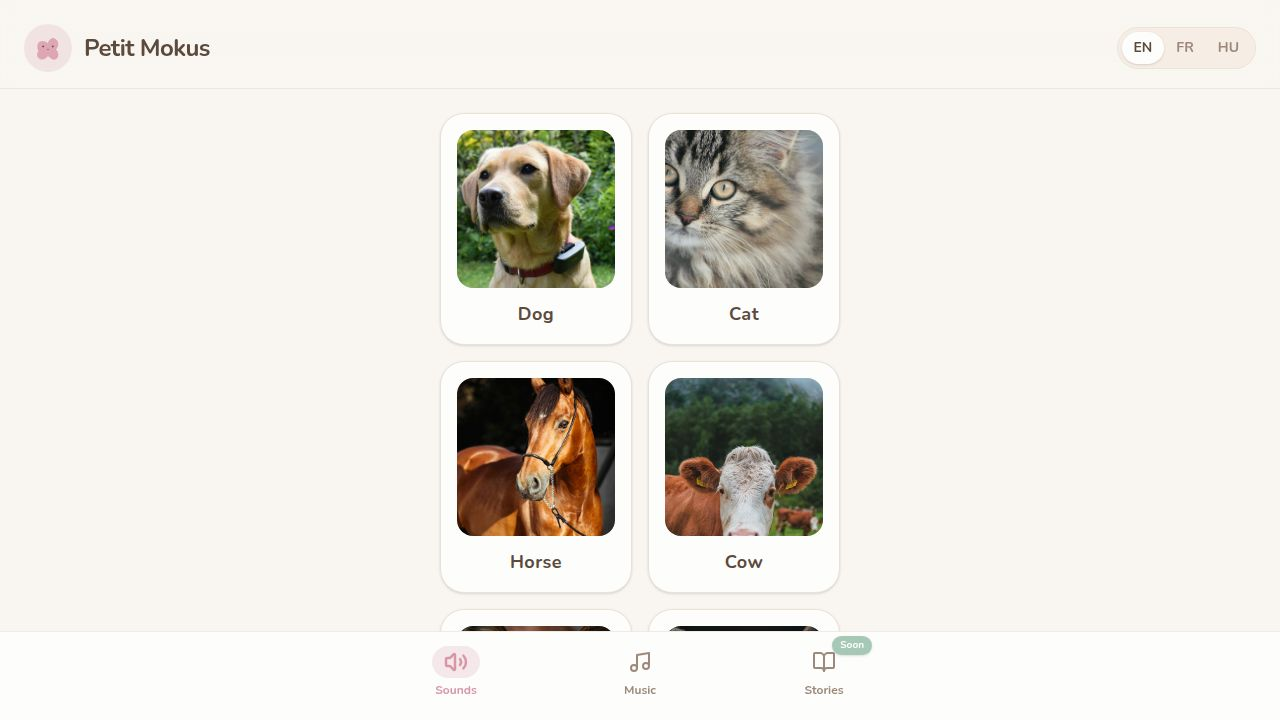
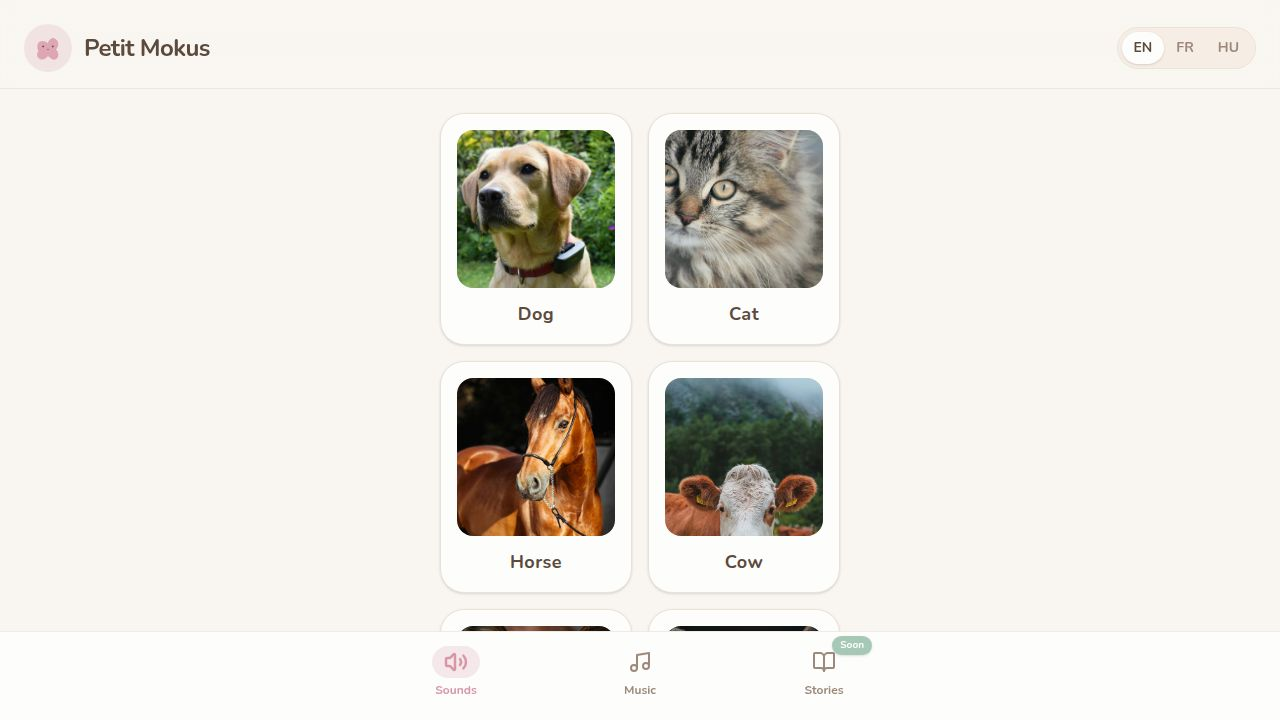
Fix cow image position and push all 10 animal photos to GitHub
- Identified that GitHub repo had old TabSounds.tsx using emoji for horse, cow, wolf, squirrel, pig
- Pushed updated TabSounds.tsx with real photos for all 10 animals to GitHub via Git API
- Adjusted cow objectPosition from center 33% to center 10% so nose/face is visible in card
- Both fixes pushed to GitHub main branch; Cloudflare Pages builds triggered automatically

Changed region(s): [[0.5, 0.5194, 0.6562, 0.7639]]

diff --git a/artifacts/petit-mokus/src/components/TabSounds.tsx b/artifacts/petit-mokus/src/components/TabSounds.tsx
@@ -27,7 +27,7 @@ const animals: AnimalEntry[] = [
   { id: 'dog',      photo: dogPhoto,   color: 'bg-accent/20 text-accent-foreground',       objectPosition: 'center 25%' },
   { id: 'cat',      photo: catPhoto,   color: 'bg-primary/10 text-primary-foreground',      objectPosition: 'center 15%' },
   { id: 'horse',    photo: horsePhoto, color: 'bg-secondary/20 text-secondary-foreground',  objectPosition: 'center 30%' },
-  { id: 'cow',      photo: cowPhoto,   color: 'bg-chart-3/50 text-foreground',              objectPosition: 'center 33%' },
+  { id: 'cow',      photo: cowPhoto,   color: 'bg-chart-3/50 text-foreground',              objectPosition: 'center 10%' },
   { id: 'fox',      photo: foxPhoto,   color: 'bg-orange-100 text-orange-900',  objectPosition: 'center 20%' },
   { id: 'wolf',     photo: wolfPhoto,  color: 'bg-slate-100 text-slate-800',    objectPosition: 'center 25%' },
   { id: 'squirrel', photo: squirrelPhoto, color: 'bg-primary/20 text-primary-foreground', objectPosition: 'center 30%' },
